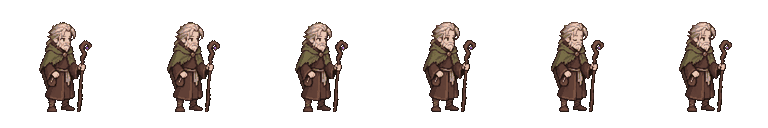
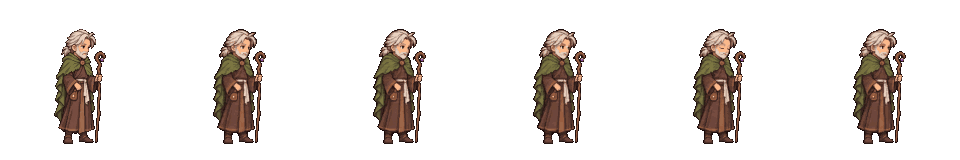
NPCs: the five redrawn at the new hero's proportions, six-frame idles
GPT's revision (artifacts/npc-idle-revision-20261021): 하켄, 베른, 오르가,
이벨, 베일라 as 960x160 sheets, six 160 cells, feet (80,144), the same frame
times; reviewed: binary alpha, 41-48 colours, every frame's feet on row 143,
heights 112-120 within one dot across frames (hero 118), lone pixels 29.5%
(was 45-51%), Haken's violet staff bead in all six, Bern's teal back to a
short shoulder mantle, the fifth frame closes the eyes.

- data/stage-view.js STAGE_NPC_ART: cell 160, feet (80,144), head 24 (Orga's
  crown), scale 1 (one dot is one hero dot; the old 89-dot art drew at
  1.15), and a picture version that js/canvas-act-title-card.js puts on the
  sheet address, so a browser holding the old 128-cell sheet does not cut it
  with the new cells.
- scripts/build-stage-npcs.cjs now checks and copies finished 160-cell sheets
  (portraits optional from the illustrations); the colour matching that
  dressed the old 128-cell exports goes, since the new art comes in the
  approved colours. Run with the revision folder and the launcher copy.

Checked in the running game: all five stand in the act 1 entry room beside
the hero (each served in Haken's place for the shot), no page errors;
check:architecture, npm test 20/20.

diff --git a/index.html b/index.html
@@ -1532,7 +1532,7 @@
 <script defer src="data/hana-sprites.js?v=20260930-5"></script>
 <script defer src="data/hana-weapon-combos.js?v=20260929-1&runes=20261017-1"></script>
 <script defer src="data/stage-characters.js?v=20261011-1&motion1020=20261020-1"></script>
-<script defer src="data/stage-view.js?v=20261011-1&stageterrain=20261011-1&rooms=20261013-9&backdrop=20261011-1&theme=20261011-1&dirt=20261011-1&layers=20261011-1&kit=20261011-root-end-v5&play=20261012-1&plans=20261013-1&grow=20261013-1&hudclear=20261013-2&sizes=20261013-1&wispscale=20261013-1&loot=20261013-1&looks=20261013-1&boardrooms=20261013-1&tallfit=20261013-1&roomvar=20261013-1&perf=20261013-1&boss=20261014-1&strike=20261014-2&npc=20261015-1&npc=20261015-2&npc=20261015-3&opening=20261015-1&noposts=20261015-1&storyflow=20261015-1&ability=20261016-1&runes=20261017-1&storyart=20261018-1&ocean2=20261020-1&faces1021=20261021-1&deacon1021=20261021-1"></script>
+<script defer src="data/stage-view.js?v=20261011-1&stageterrain=20261011-1&rooms=20261013-9&backdrop=20261011-1&theme=20261011-1&dirt=20261011-1&layers=20261011-1&kit=20261011-root-end-v5&play=20261012-1&plans=20261013-1&grow=20261013-1&hudclear=20261013-2&sizes=20261013-1&wispscale=20261013-1&loot=20261013-1&looks=20261013-1&boardrooms=20261013-1&tallfit=20261013-1&roomvar=20261013-1&perf=20261013-1&boss=20261014-1&strike=20261014-2&npc=20261015-1&npc=20261015-2&npc=20261015-3&opening=20261015-1&noposts=20261015-1&storyflow=20261015-1&ability=20261016-1&runes=20261017-1&storyart=20261018-1&ocean2=20261020-1&faces1021=20261021-1&deacon1021=20261021-1&npc1021=20261021-1"></script>
 <script defer src="data/stage-story-art.js?v=20261018-1"></script>
 <script defer src="data/stage-room-plans.js?v=20261013-1&board=20261013-1&hive=20261013-1&boardrooms=20261013-1&perf=20261013-1&ocean2=20261020-1"></script>
 <script defer src="data/stage-regions.js?v=20261013-1&seal=20261017-1&ocean2=20261020-1"></script>
@@ -1718,7 +1718,7 @@
 <script defer src="js/canvas-stage-room-pictures.js?v=20261013-1&seal=20261017-1"></script>
 <script defer src="js/canvas-stage-rooms.js?v=20261011-1&backdrop=20261011-1&theme=20261011-1&layers=20261011-1&kit=20261011-1&play=20261012-1&plans=20261013-1&hudclear=20261013-2&warm=20261013-1&boardrooms=20261013-1&tallfit=20261013-1&perf=20261013-7&boss=20261014-1&roomfix=20261017-1&omen=20261018-1&ocean2=20261020-1"></script>
 <script defer src="js/canvas-boss-revive.js?v=20261015-1&revivefx=20261015-1"></script>
-<script defer src="js/canvas-act-title-card.js?v=20260929-1&story=20261015-3&npc=20261015-1&npc=20261015-2&npc=20261015-3&ending=20261015-1&rescue=20261015-1&opening=20261015-1&storylog=20261015-1&rescueroom=20261015-1&npctalk=20261015-1&noposts=20261015-1&storyflow=20261015-1&story=20261016-1&story=20261016-2&story=20261016-3&npcshop=20261016-1&shopdot=20261017-1&lockon=20261017-1&bosses=20261018-1"></script>
+<script defer src="js/canvas-act-title-card.js?v=20260929-1&story=20261015-3&npc=20261015-1&npc=20261015-2&npc=20261015-3&ending=20261015-1&rescue=20261015-1&opening=20261015-1&storylog=20261015-1&rescueroom=20261015-1&npctalk=20261015-1&noposts=20261015-1&storyflow=20261015-1&story=20261016-1&story=20261016-2&story=20261016-3&npcshop=20261016-1&shopdot=20261017-1&lockon=20261017-1&bosses=20261018-1&npc1021=20261021-1"></script>
 <script defer src="js/canvas-battle-units.js?v=20260930-5&monsters=20261002-1&sight=20261004-1&pickup=20261005-1&dmg=20261005-2&playtest=20261007-9&playtest=20261007-10&stage=20261011-1&finish=20261013-1&skillvfx=20261013-4&strike=20261014-1&runes=20261017-1&motion1020=20261020-1&answers1020=20261020-1"></script>
 <script defer src="js/canvas-boss-entrance.js?stage=20261011-1&boss=20261014-1&roomfix=20261017-1&banner=20261019-2"></script>
 <script defer src="js/canvas-boss-attacks.js?v=20261006-3&review=20261007-1&bossmoves=20261016-1&bosses=20261018-1&warn=20261019-1"></script>

diff --git a/data/stage-view.js b/data/stage-view.js
@@ -288,13 +288,15 @@ const STAGE_MONSTER_SCALE = Object.freeze({ 'wisp-': 0.7, 'hive-': 0.6, 'deacon-
  * STORY_NPCS, 이름으로 찾는다)가 입구 방에 선다. 엔드게임 콘텐츠 지도에는 서지 않는다(2026-10-15 사용자: "콘텐츠 지도 입구 NPC도 빼줘",
  * 지도마다 같은 NPC가 앞질러 서 있는 게 어색했다). 누르면 그 NPC의 창(대사, 즉시 해금, 상점)이 열린다(js/content-progression-ui.js openNpc).
  * 그림은 assets/stage-npcs/<id>-idle.png(대기 6프레임 한 줄, 칸 cell, 발 feet, 머리 꼭대기 head, 프레임마다 frameMs)와
- * <id>-portrait.png(일러스트, 480×720). scale: 몸이 89도트로 주인공(97도트)보다 작아 아이처럼 보여 늘려 그린다.
- * 저장소 밖 그림이다(scripts/build-stage-npcs.cjs가 옮긴다). 그림이 없으면 NPC는 서지 않고 대사만 띠에 나온다.
+ * <id>-portrait.png(일러스트, 480×720). scripts/build-stage-npcs.cjs가 그림 도구의 시트를 검사해 옮긴다. 그림이 없으면 NPC는 서지 않고
+ * 대사만 띠에 나온다. 2026-10-21 새 주인공 비율로 다시 그린 판(artifacts/npc-idle-revision-20261021, 키 112~120도트, 머리 23~25도트)이라
+ * scale은 1(그림의 도트 = 주인공의 도트)이다. 예전 판은 몸이 89도트로 주인공(97도트)보다 작아 1.15배로 그렸다. head는 가장 큰 오르가의
+ * 머리 꼭대기다. version은 그림을 바꿀 때 올린다(브라우저가 예전 시트를 쥐고 새 칸으로 자르지 않게).
  * 2026-10-15 사용자: "하켄부터 세워봐", 이어서 NPC 도트와 일러스트 다섯을 만들어 줬다. 하켄은 액트 5에서 쓰러지므로 엔드게임 자리는 없다. */
 /** 쓰러진 자리에서 이야기가 다시 일으키는 보스(act bossId, js/canvas-boss-revive.js): 처치 대사가 나오는 동안 황금 수액 기둥과 다시 차오르는
  * 체력바를 그린다(2026-10-15: 2막 부제녀의 처치 대사는 "다시 일으킨다!"인데 화면에는 아무 일도 없었다). fillMs: 막대가 다 차는 데 걸리는 시간. */
 const STAGE_BOSS_REVIVAL = Object.freeze({ bosses: Object.freeze(['gardener_immortal']), fillMs: 1400 });
-const STAGE_NPC_ART = Object.freeze({ path: 'assets/stage-npcs/', cell: 128, feet: Object.freeze([64, 112]), head: 22, scale: 1.15,
+const STAGE_NPC_ART = Object.freeze({ path: 'assets/stage-npcs/', version: '20261021-1', cell: 160, feet: Object.freeze([80, 144]), head: 24, scale: 1,
     frameMs: Object.freeze([720, 260, 460, 280, 140, 720]) });
 
 /** 판(9×8)에서 싸우던 콘텐츠가 방 단위 무대에서 걷는 지도(2026-10-13 밤 사용자: "그거 포함해서 아틀라스도, 옮겨줘". js/content-maps.js withRooms).

diff --git a/js/canvas-act-title-card.js b/js/canvas-act-title-card.js
@@ -278,7 +278,7 @@ const actTitleCard = (() => {
         actors.push({ kind: 'scenery', id: -3, x: point.x, y: point.y + state.gridProj.actorGroundOffsetY, npc, talkable: !rescuing(run) });
     }
     function npcSheet(id) {
-        if (!npcSheets.has(id)) npcSheets.set(id, stagePictures.openPicture(`${STAGE_NPC_ART.path}${id}-idle.png`));
+        if (!npcSheets.has(id)) npcSheets.set(id, stagePictures.openPicture(`${STAGE_NPC_ART.path}${id}-idle.png?v=${STAGE_NPC_ART.version}`));
         return npcSheets.get(id);
     }
     /** The idle frame shown now: the art's own frame times, looping. */

diff --git a/changelog.md b/changelog.md
@@ -1,5 +1,6 @@
 # 패치 노트(컨텐츠 스포일러 포함)
 ## v0.3.10 - 2026-10-18
+- NPC 다섯(하켄, 베른, 오르가, 이벨, 베일라)의 그림이 주인공과 같은 그림체와 비율로 새로 바뀌었습니다.
 - 채팅이 실시간으로 옵니다(전: 새 메시지가 보이기까지 최대 4초, 채팅을 닫아 두면 15초).
 - 최종 보스 다섯이 단계마다 이어지는 공격을 씁니다. 큰 공격은 1.9초, 마무리는 2.2초 먼저 바닥에 예고하고, 마무리 뒤 2.6초 동안 새 공격이 없습니다.
 - 최종 보스 투기장에 용암, 빙결, 부식, 감전 지대가 깔립니다. 예고 뒤 5초 동안 남아 0.5초마다 피해를 주고, 한 번에 3개까지입니다.
